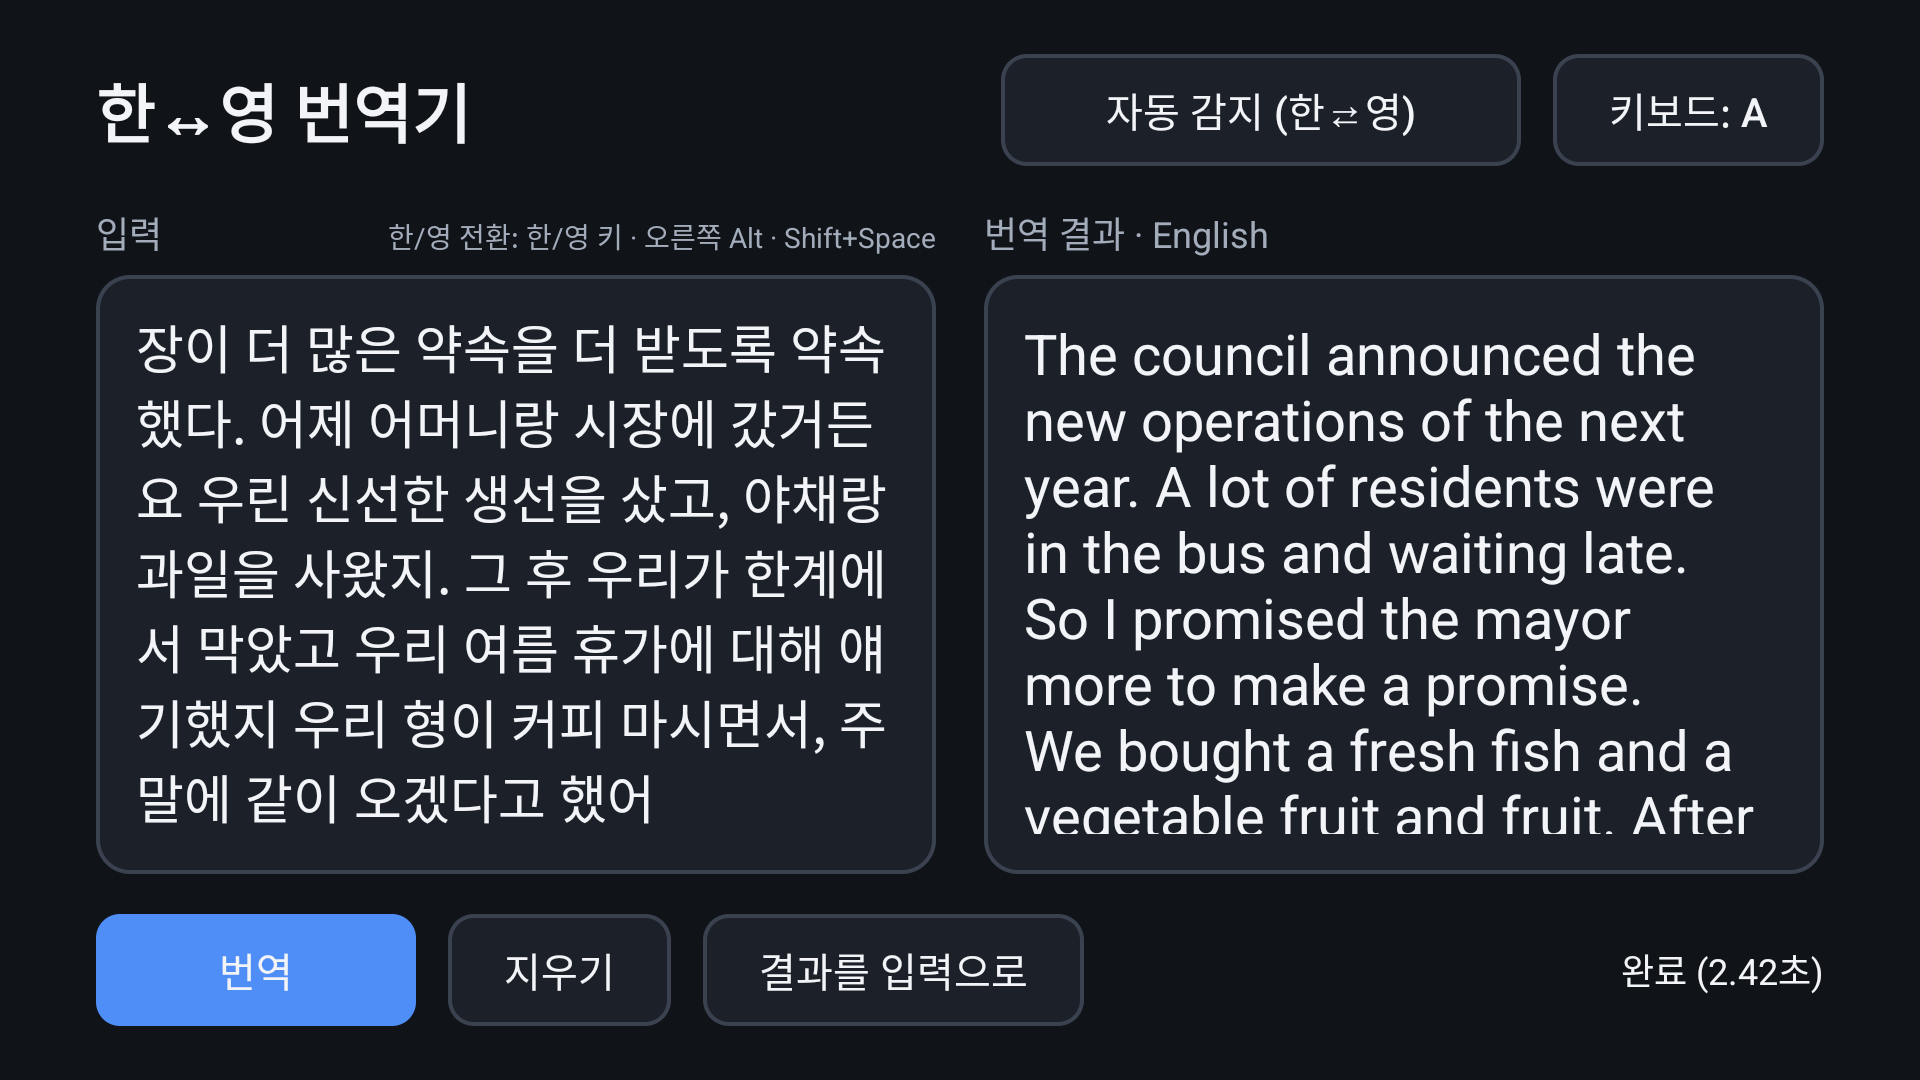
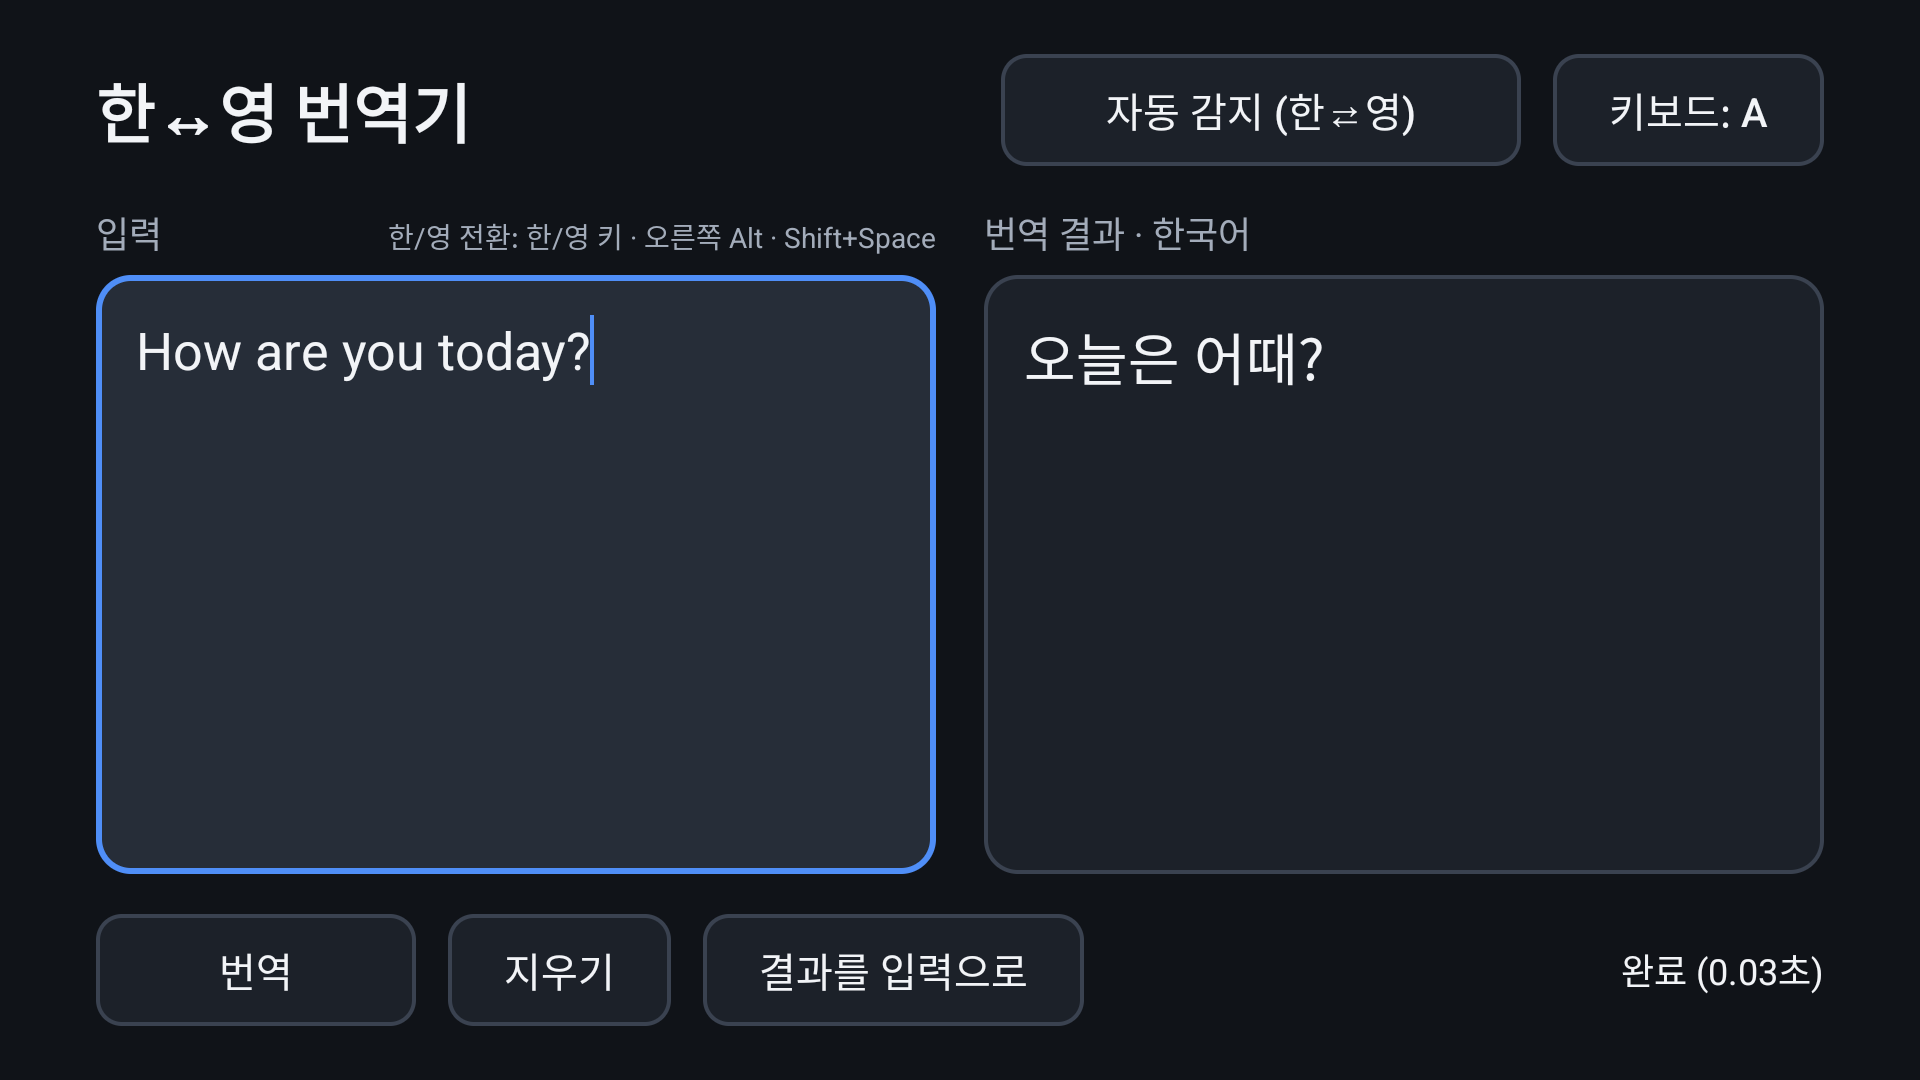
README 앱 실행 화면을 짧은 문장 번역 화면으로 교체

diff --git a/README.md b/README.md
@@ -65,7 +65,7 @@ flowchart LR
 
 ## Android 앱
 
-![실기기에서 긴 한국어 문장을 영어로 번역한 앱 화면. 결과 일부는 결과창 아래로 잘렸고 오역이 포함되어 있다.](docs/images/app_screen.png)
+![실기기에서 "How are you today?" 를 "오늘은 어때?" 로 번역한 앱 화면](docs/images/app_screen.png)
 
 - 리모컨: D-pad 로 이동하고, 입력창에서 가운데 버튼을 누르면 화상 키보드가 열린다. '완료'를 누르면 번역한다.
 - 블루투스/USB 키보드: Enter 로 번역한다. **앱 내장 두벌식 한글 조합기**를 쓰며, 한/영 키 · 오른쪽 Alt · Shift+Space 또는 화면의 `키보드: 한/A` 버튼으로 전환한다.
